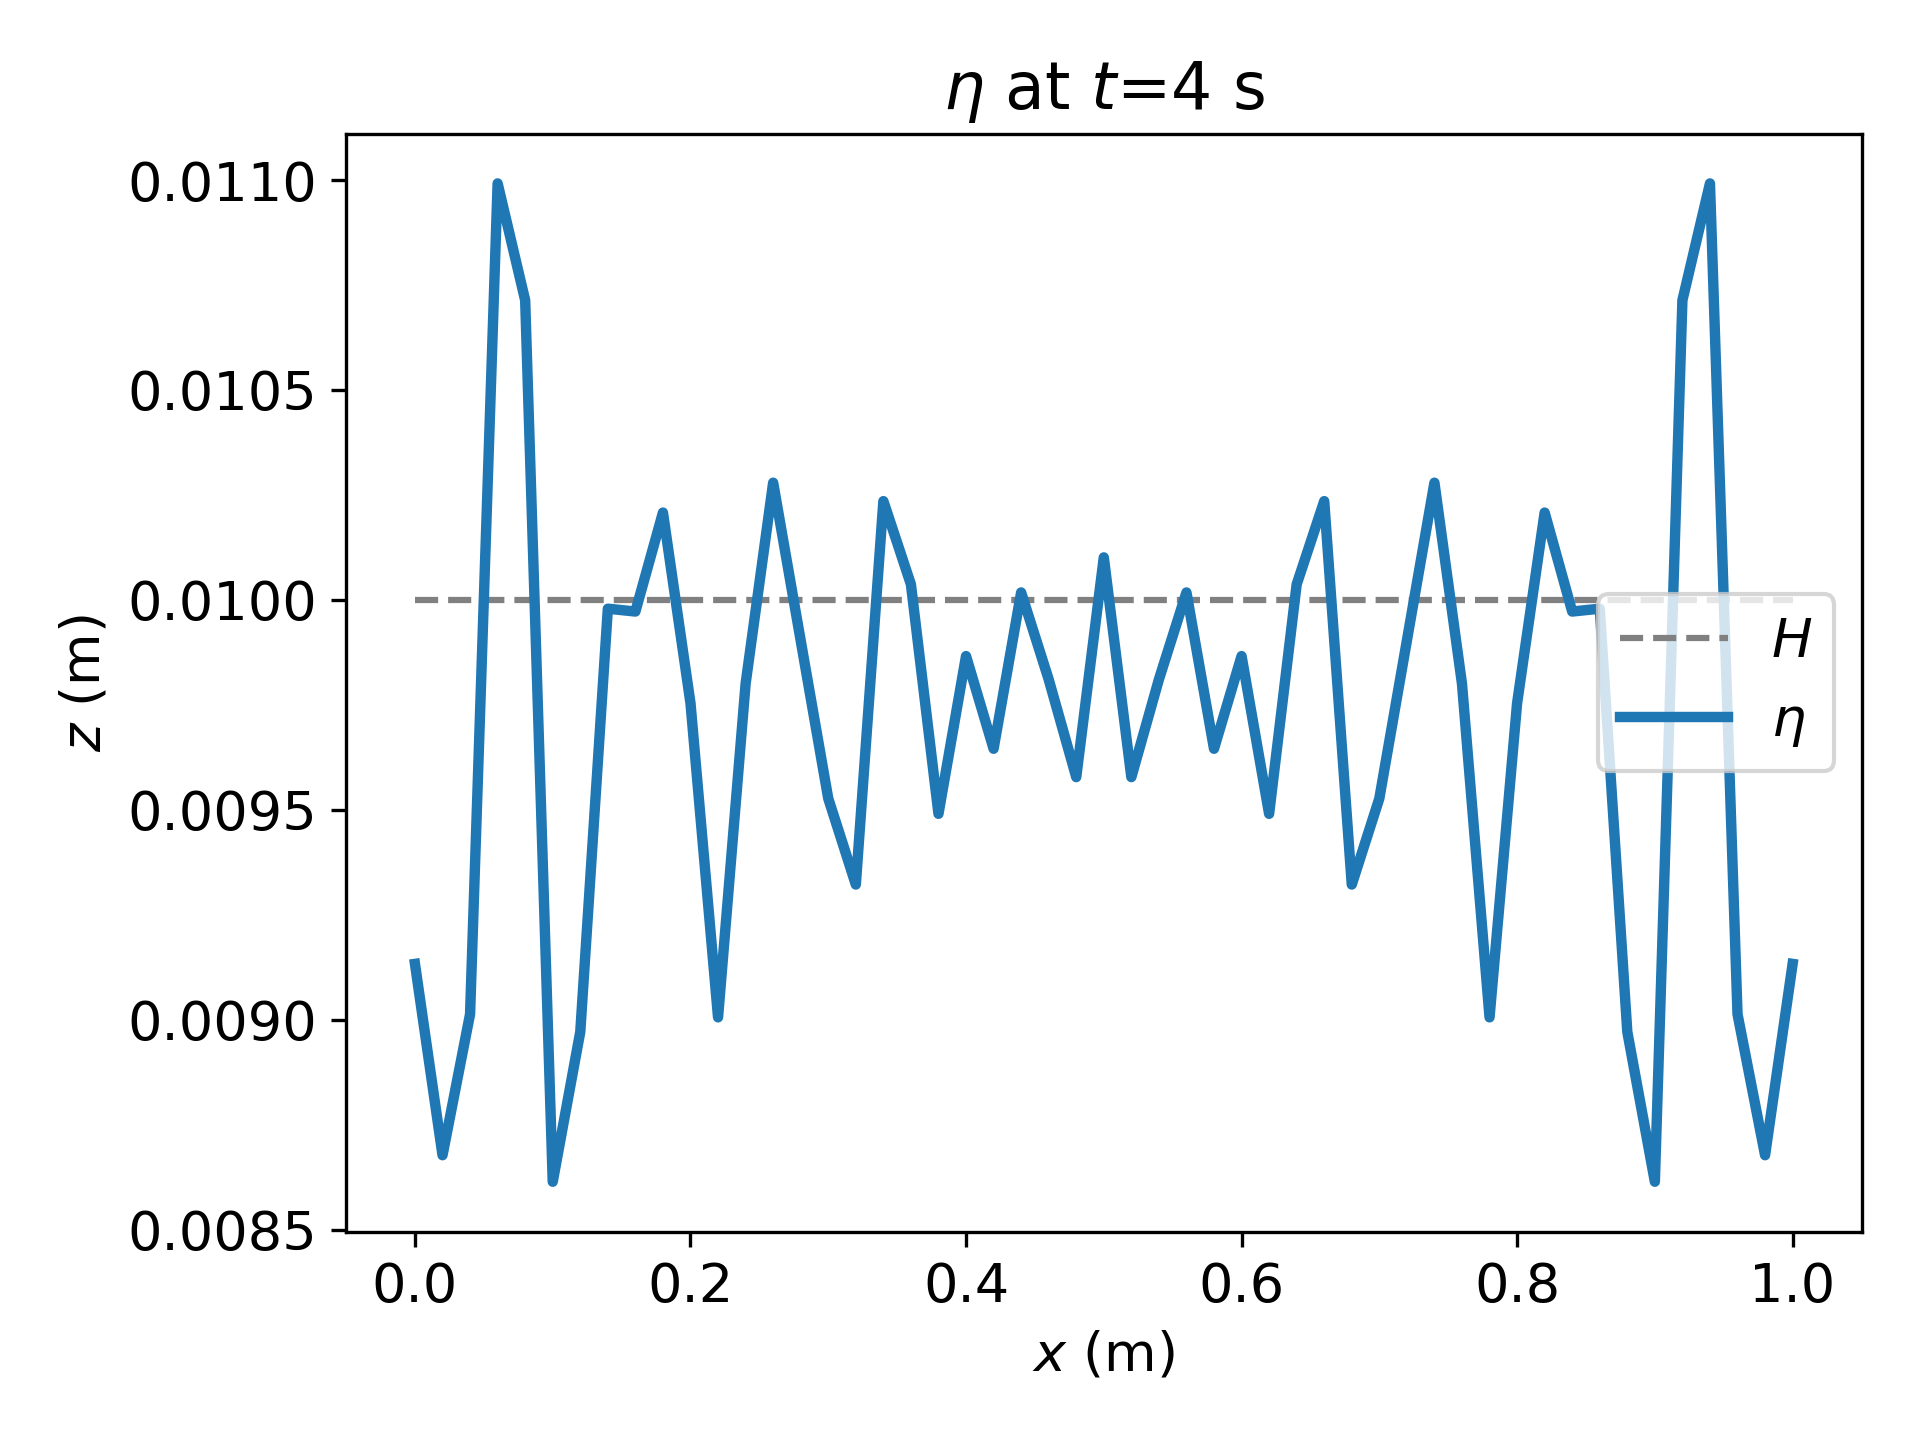
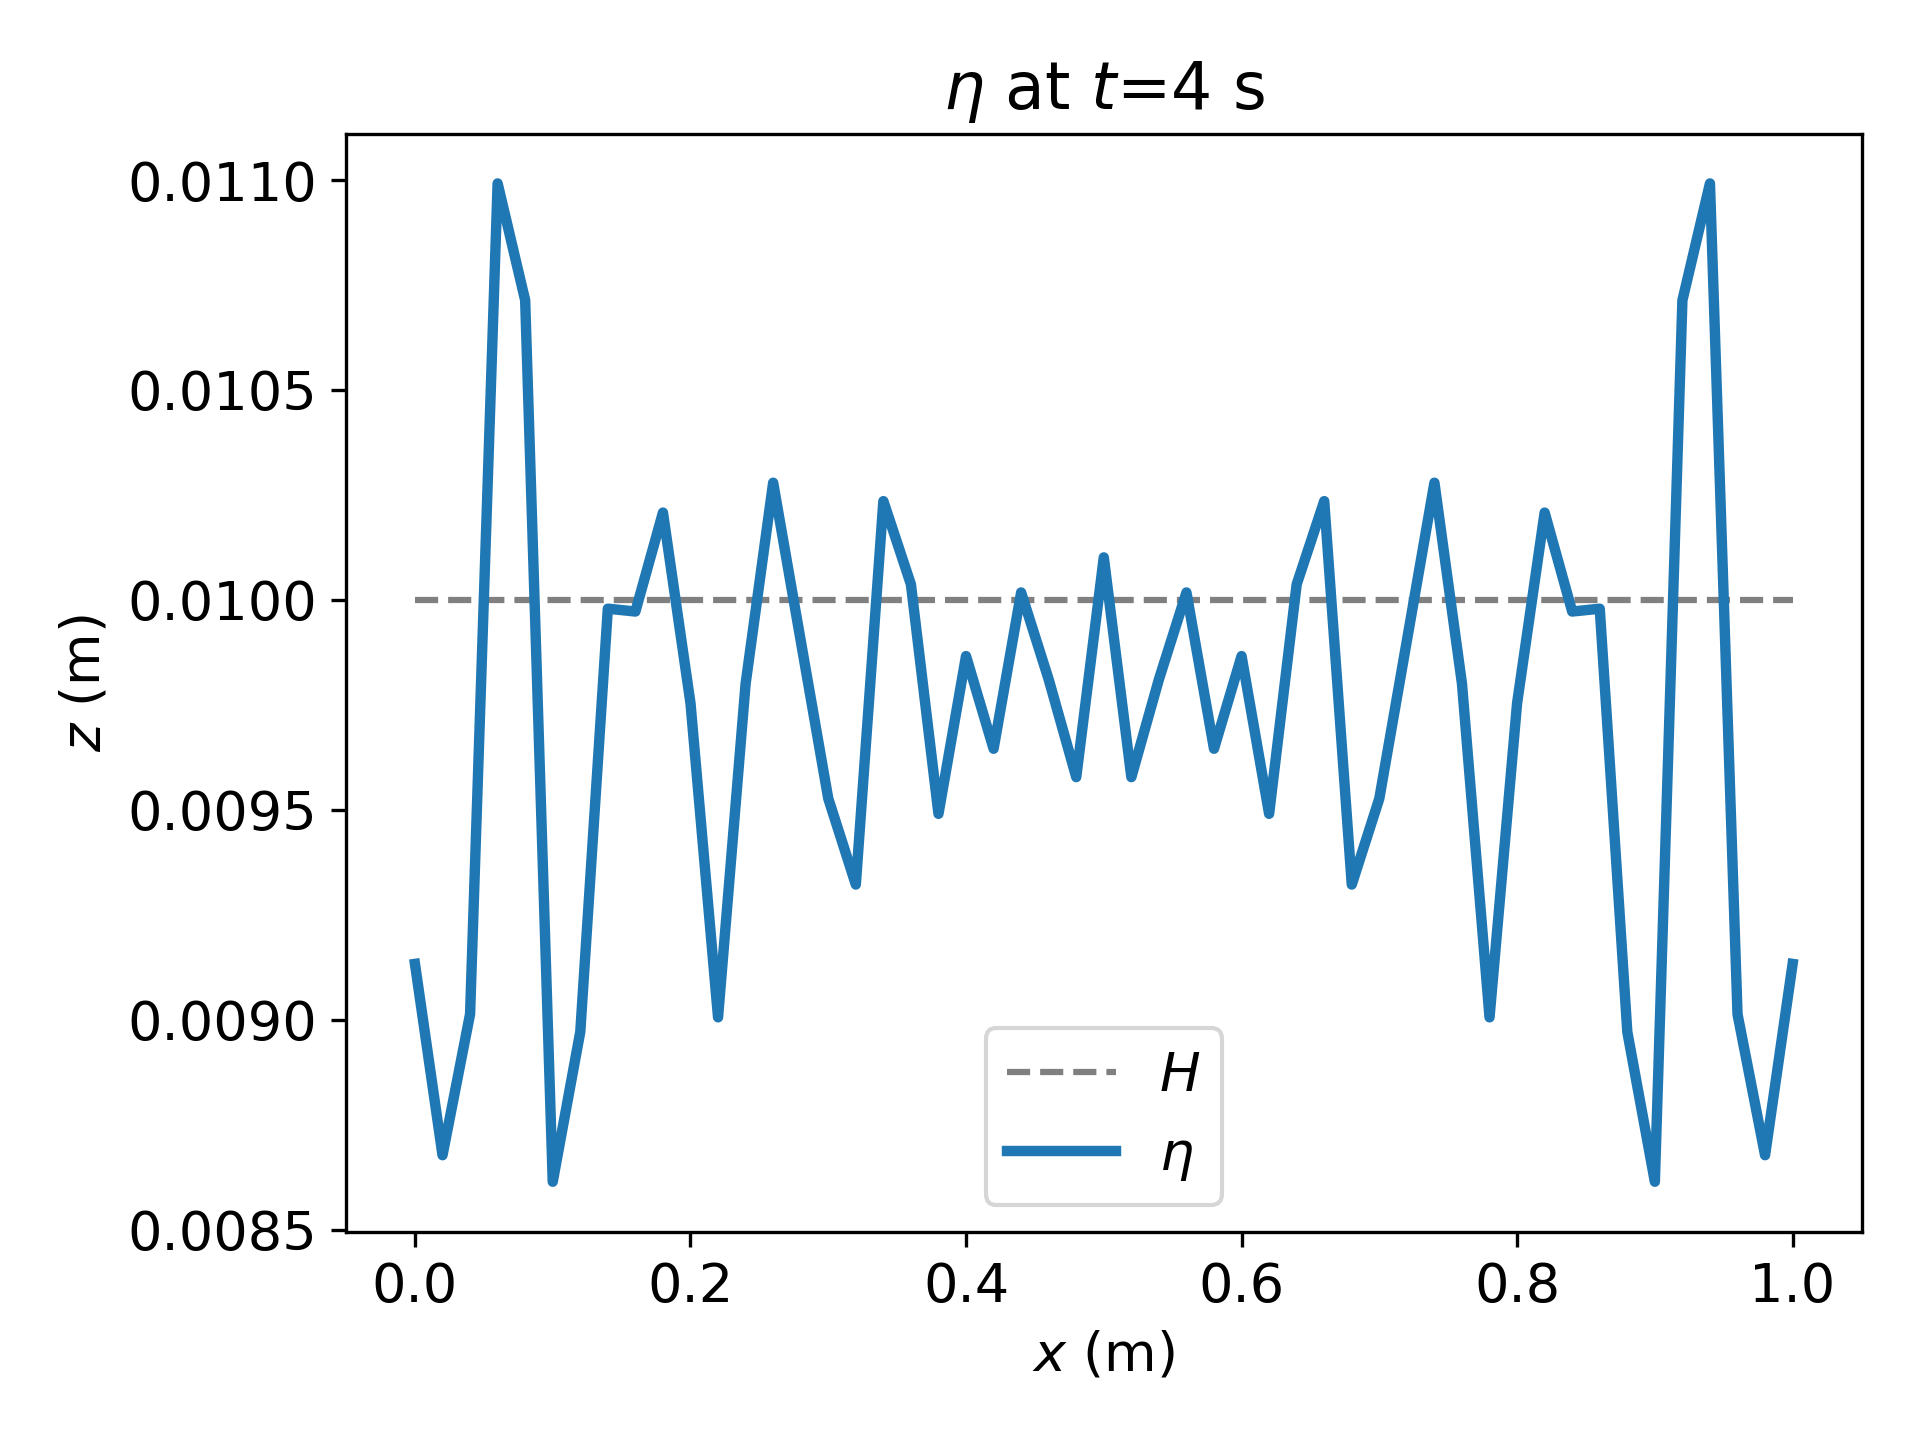
Changed legend location.

Changed region(s): [[0.8125, 0.4062, 0.9688, 0.5625], [0.5, 0.7812, 0.625, 0.8438], [0.5938, 0.7188, 0.625, 0.75]]

diff --git a/Week08/Lab08_Q02.py b/Week08/Lab08_Q02.py
@@ -123,7 +123,7 @@ for time in plotting_times:
     plt.hlines(H, x_0, x_final, colors='grey', linestyles='dashed', label=r'$H$')
     plt.plot(x_axis, results[1, :, time_index], label=r'$\eta$', lw=2.5)
 
-    plt.legend(loc='center right')
+    plt.legend()
     plt.xlabel(r'$x$ (m)')
     plt.ylabel(r'$z$ (m)')
     plt.title(rf'$\eta$ at $t$={time} s')
